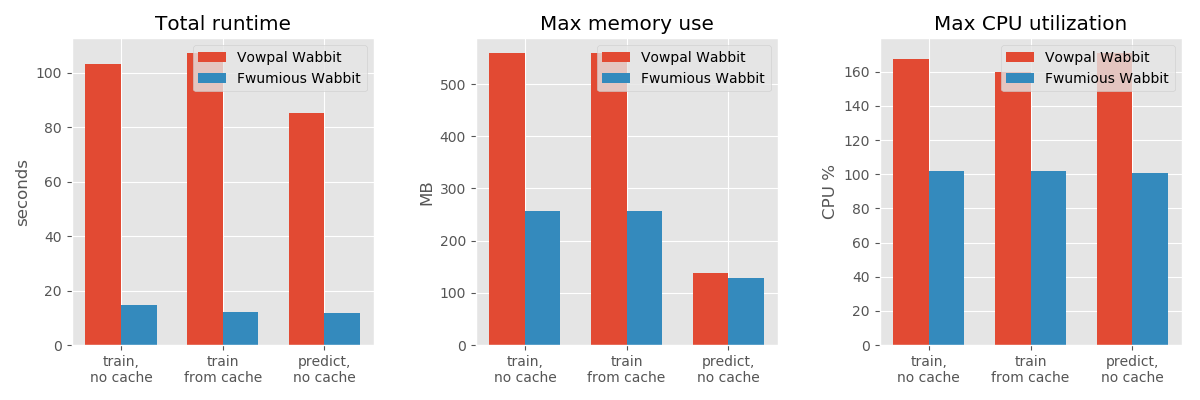
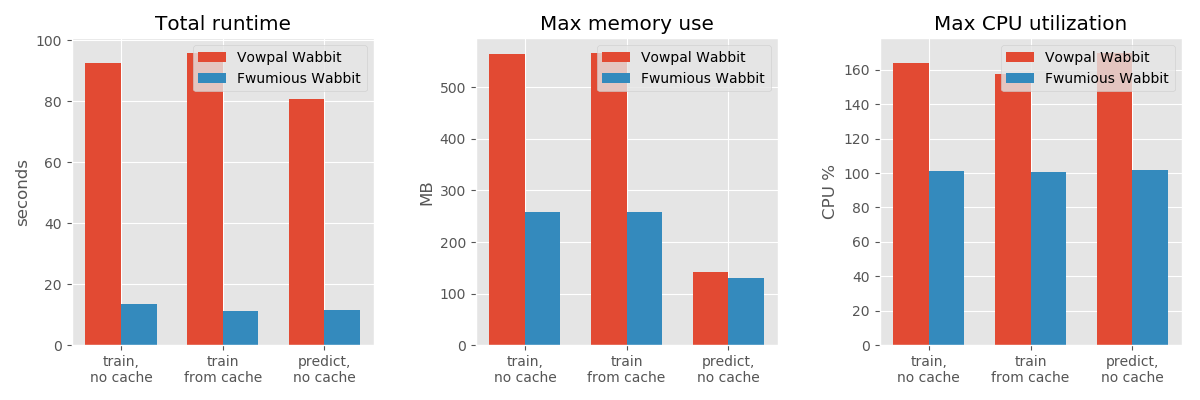
bumping version & benchmark info

diff --git a/src/version.rs b/src/version.rs
@@ -1,1 +1,1 @@
-pub static LATEST: &str = "0.5";
+pub static LATEST: &str = "0.1";

diff --git a/BENCHMARK.md b/BENCHMARK.md
@@ -14,12 +14,12 @@ here are the results for 3 runs for each scenario, taking mean values:
 ![benchmark results](benchmark_results.png)
 Scenario|Runtime (seconds)|Memory (MB)|CPU %
 ----|----:|----:|----:
-vw train, no cache|103.22 | 560 | 167.33
-fw train, no cache|14.89 | 257 | 101.93
-vw train, using cache|107.27 | 559 | 159.83
-fw train, using cache|12.12 | 257 | 102.00
-vw predict, no cache|85.37 | 139 | 171.07
-fw predict, no cache|11.85 | 129 | 100.90
+vw train, no cache|92.56 | 565 | 164.07
+fw train, no cache|13.61 | 258 | 101.10
+vw train, using cache|95.79 | 567 | 157.63
+fw train, using cache|11.31 | 258 | 100.73
+vw predict, no cache|80.53 | 141 | 169.83
+fw predict, no cache|11.39 | 130 | 101.63
 
 ### Model equivalence
 loss values for the test set:
@@ -82,7 +82,7 @@ or, if you just want the numbers with less dependencies run:
 ### versions:
 ```
 vowpal wabbit 8.9.2 (git commit: 884420267)
-fwumious wabbit 0.3 (git commit: 8af51fd)
+fwumious wabbit 0.1 (git commit: 8ca1842)
 ```
 
 ### CPU Info
@@ -92,5 +92,5 @@ Intel(R) Xeon(R) CPU E5-2630 v2 @ 2.60GHz
 ### Operating System
 ```
 System: Linux
-Version: #186-Ubuntu SMP Mon Dec 4 19:09:19 UTC 2017
+Version: #174~14.04.1-Ubuntu SMP Thu May 9 08:17:37 UTC 2019
 ```
